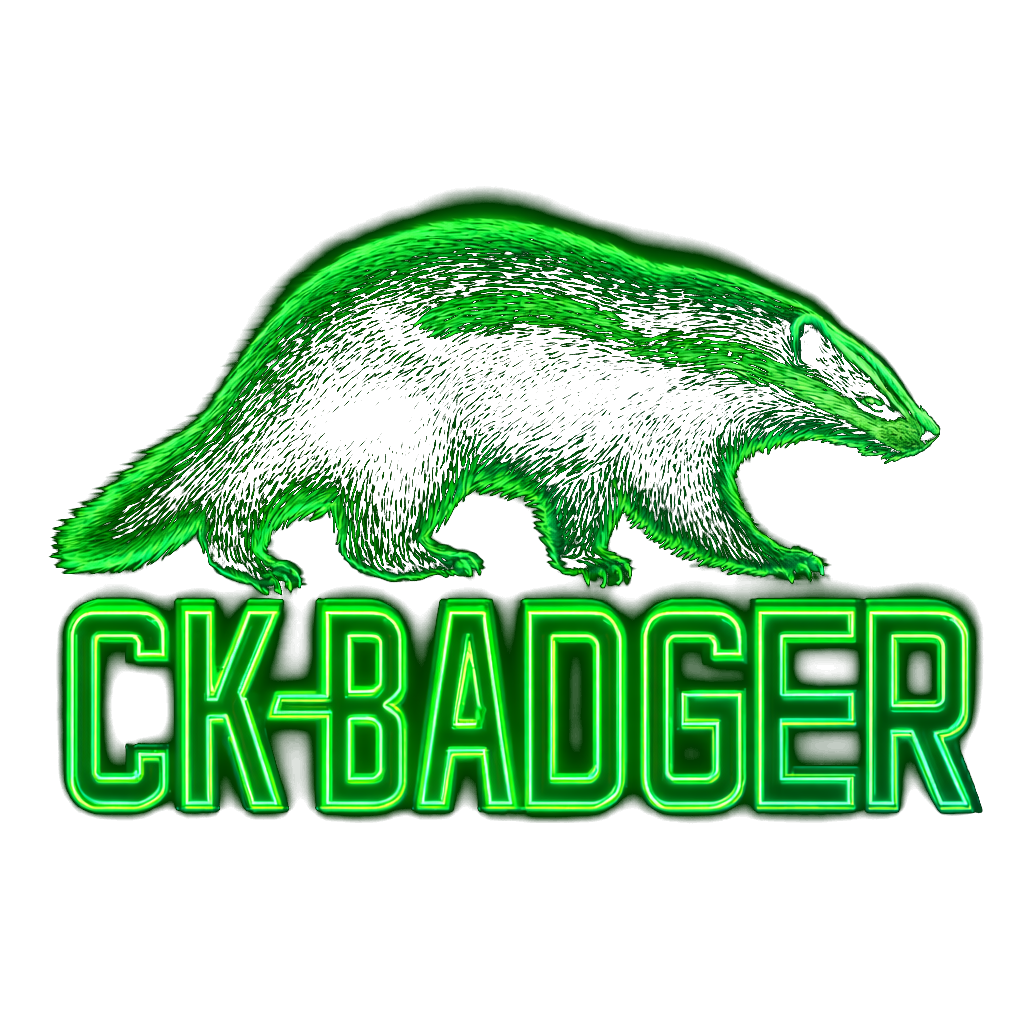
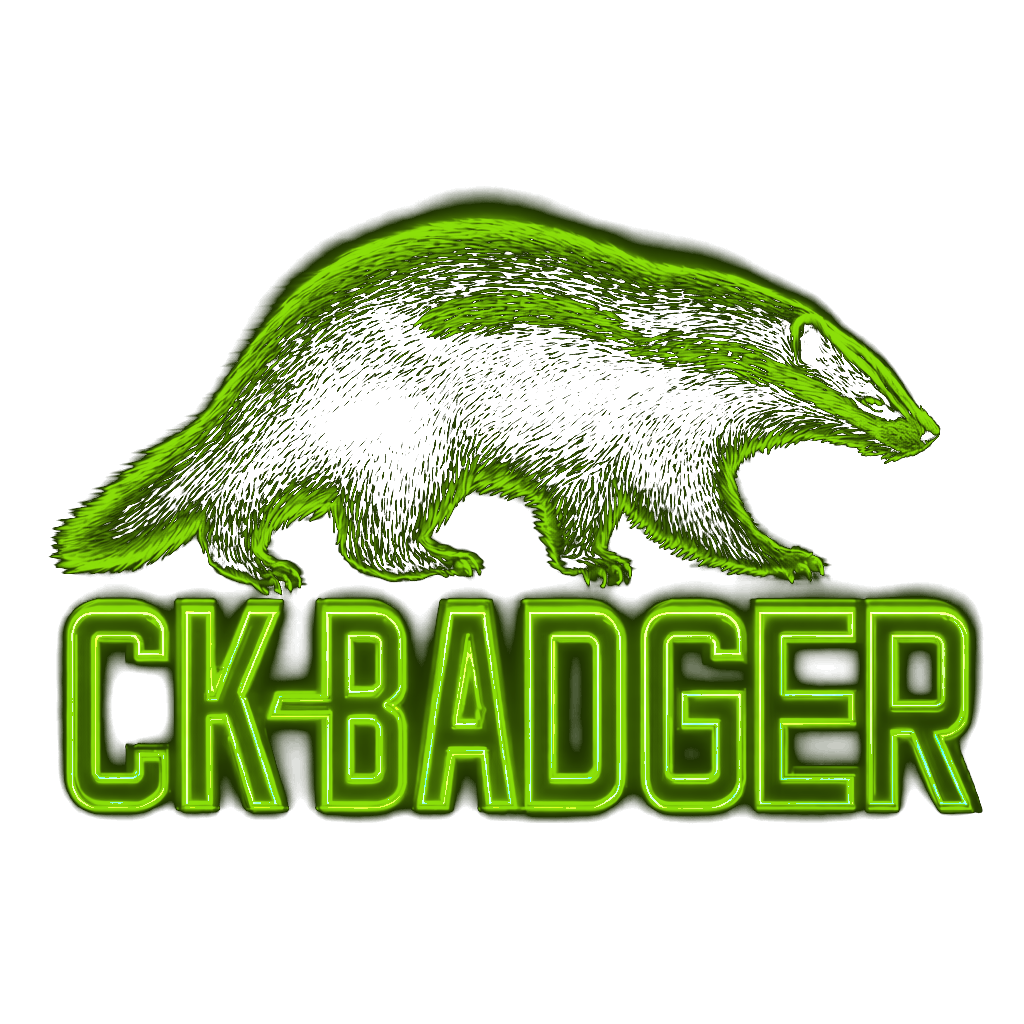
fix(frontend): unify stray green (#00FF41) to emphasis lime (#8ce00a)
Replace all hardcoded rgba(0,255,65) with the design-system emphasis
lime rgba(140,224,10) across logo neon-flicker animation, chain-wave,
mempool-blocks, and hex-display glow. Recolor logo PNG itself to match.

Changed region(s): [[0.0312, 0.1875, 0.9688, 0.8125]]

diff --git a/frontend/app/globals.css b/frontend/app/globals.css
@@ -132,7 +132,7 @@ body {
     background: linear-gradient(
       90deg,
       transparent 0%,
-      rgba(0, 255, 65, 0.05) 50%,
+      rgba(140, 224, 10, 0.05) 50%,
       transparent 100%
     );
     transform: translateX(-100%);
@@ -199,71 +199,73 @@ body {
 @keyframes neon-flicker-anim {
   0% {
     opacity: 1;
-    filter: drop-shadow(0 0 12px rgba(0, 255, 65, 0.4));
+    filter: drop-shadow(0 0 12px rgba(140, 224, 10, 0.4));
   }
   5% {
     opacity: 0.4;
-    filter: drop-shadow(0 0 2px rgba(0, 255, 65, 0.2));
+    filter: drop-shadow(0 0 2px rgba(140, 224, 10, 0.2));
   }
   10% {
     opacity: 1;
-    filter: drop-shadow(0 0 18px rgba(0, 255, 65, 0.7));
+    filter: drop-shadow(0 0 18px rgba(140, 224, 10, 0.7));
   }
   15% {
     opacity: 0.7;
-    filter: drop-shadow(0 0 8px rgba(0, 255, 65, 0.3));
+    filter: drop-shadow(0 0 8px rgba(140, 224, 10, 0.3));
   }
   20% {
     opacity: 1;
-    filter: drop-shadow(0 0 25px rgba(0, 255, 65, 0.9)) drop-shadow(0 0 40px rgba(0, 255, 65, 0.5));
+    filter: drop-shadow(0 0 25px rgba(140, 224, 10, 0.9))
+      drop-shadow(0 0 40px rgba(140, 224, 10, 0.5));
   }
   25% {
     opacity: 0.3;
-    filter: drop-shadow(0 0 3px rgba(0, 255, 65, 0.1));
+    filter: drop-shadow(0 0 3px rgba(140, 224, 10, 0.1));
   }
   30% {
     opacity: 0.9;
-    filter: drop-shadow(0 0 15px rgba(0, 255, 65, 0.6));
+    filter: drop-shadow(0 0 15px rgba(140, 224, 10, 0.6));
   }
   35% {
     opacity: 0.5;
-    filter: drop-shadow(0 0 5px rgba(0, 255, 65, 0.2));
+    filter: drop-shadow(0 0 5px rgba(140, 224, 10, 0.2));
   }
   40% {
     opacity: 1;
-    filter: drop-shadow(0 0 20px rgba(0, 255, 65, 0.8)) drop-shadow(0 0 35px rgba(0, 255, 65, 0.4));
+    filter: drop-shadow(0 0 20px rgba(140, 224, 10, 0.8))
+      drop-shadow(0 0 35px rgba(140, 224, 10, 0.4));
   }
   45% {
     opacity: 0.6;
-    filter: drop-shadow(0 0 6px rgba(0, 255, 65, 0.25));
+    filter: drop-shadow(0 0 6px rgba(140, 224, 10, 0.25));
   }
   50% {
     opacity: 1;
-    filter: drop-shadow(0 0 22px rgba(0, 255, 65, 0.85));
+    filter: drop-shadow(0 0 22px rgba(140, 224, 10, 0.85));
   }
   55% {
     opacity: 0.8;
-    filter: drop-shadow(0 0 10px rgba(0, 255, 65, 0.4));
+    filter: drop-shadow(0 0 10px rgba(140, 224, 10, 0.4));
   }
   60% {
     opacity: 1;
-    filter: drop-shadow(0 0 18px rgba(0, 255, 65, 0.7));
+    filter: drop-shadow(0 0 18px rgba(140, 224, 10, 0.7));
   }
   70% {
     opacity: 0.95;
-    filter: drop-shadow(0 0 14px rgba(0, 255, 65, 0.55));
+    filter: drop-shadow(0 0 14px rgba(140, 224, 10, 0.55));
   }
   80% {
     opacity: 1;
-    filter: drop-shadow(0 0 15px rgba(0, 255, 65, 0.5));
+    filter: drop-shadow(0 0 15px rgba(140, 224, 10, 0.5));
   }
   90% {
     opacity: 1;
-    filter: drop-shadow(0 0 13px rgba(0, 255, 65, 0.45));
+    filter: drop-shadow(0 0 13px rgba(140, 224, 10, 0.45));
   }
   100% {
     opacity: 1;
-    filter: drop-shadow(0 0 12px rgba(0, 255, 65, 0.4));
+    filter: drop-shadow(0 0 12px rgba(140, 224, 10, 0.4));
   }
 }
 

diff --git a/frontend/components/chain-wave/index.tsx b/frontend/components/chain-wave/index.tsx
@@ -85,7 +85,7 @@ function bubbleColor(feeScore: number, stage: FlowStage, missing: boolean): stri
   const alpha = 0.4 + feeScore * 0.4;
   if (stage === 'mempool') return `rgba(255, 176, 0, ${alpha})`;
   if (stage === 'proposed') return `rgba(0, 204, 51, ${alpha})`;
-  return `rgba(0, 255, 65, ${alpha})`;
+  return `rgba(140, 224, 10, ${alpha})`;
 }
 
 function mempoolTxToItem(tx: MempoolTransaction): FlowTxItem {
@@ -188,7 +188,7 @@ function TxMetricScatter({
     >
       <div className="pointer-events-none absolute inset-0 grid grid-cols-4 grid-rows-4">
         {Array.from({ length: 16 }, (_, idx) => (
-          <div key={idx} className="border-base-border/30 border" />
+          <div key={idx} className="border-base-border/60 border" />
         ))}
       </div>
 

diff --git a/frontend/components/ui/hex-display.tsx b/frontend/components/ui/hex-display.tsx
@@ -26,7 +26,7 @@ const HexChar = memo(function HexChar({
     green: {
       base: 'text-emphasis-dim',
       hover: 'text-emphasis',
-      glow: '0 0 4px rgba(0, 255, 65, 0.6)',
+      glow: '0 0 4px rgba(140, 224, 10, 0.6)',
     },
     amber: {
       base: 'text-warning-dim',
@@ -41,7 +41,7 @@ const HexChar = memo(function HexChar({
     accent: {
       base: 'text-emphasis',
       hover: 'text-emphasis',
-      glow: '0 0 4px rgba(0, 255, 65, 0.6)',
+      glow: '0 0 4px rgba(140, 224, 10, 0.6)',
     },
   };
 

diff --git a/frontend/components/mempool-blocks.tsx b/frontend/components/mempool-blocks.tsx
@@ -319,7 +319,7 @@ function lensColor(
   const alpha = 0.35 + feeScore * 0.5;
   if (stage === 'mempool') return `rgba(255, 176, 0, ${alpha})`;
   if (stage === 'proposed') return `rgba(0, 204, 51, ${alpha})`;
-  return `rgba(0, 255, 65, ${alpha})`;
+  return `rgba(140, 224, 10, ${alpha})`;
 }
 
 function mempoolTxToLensItem(tx: {
